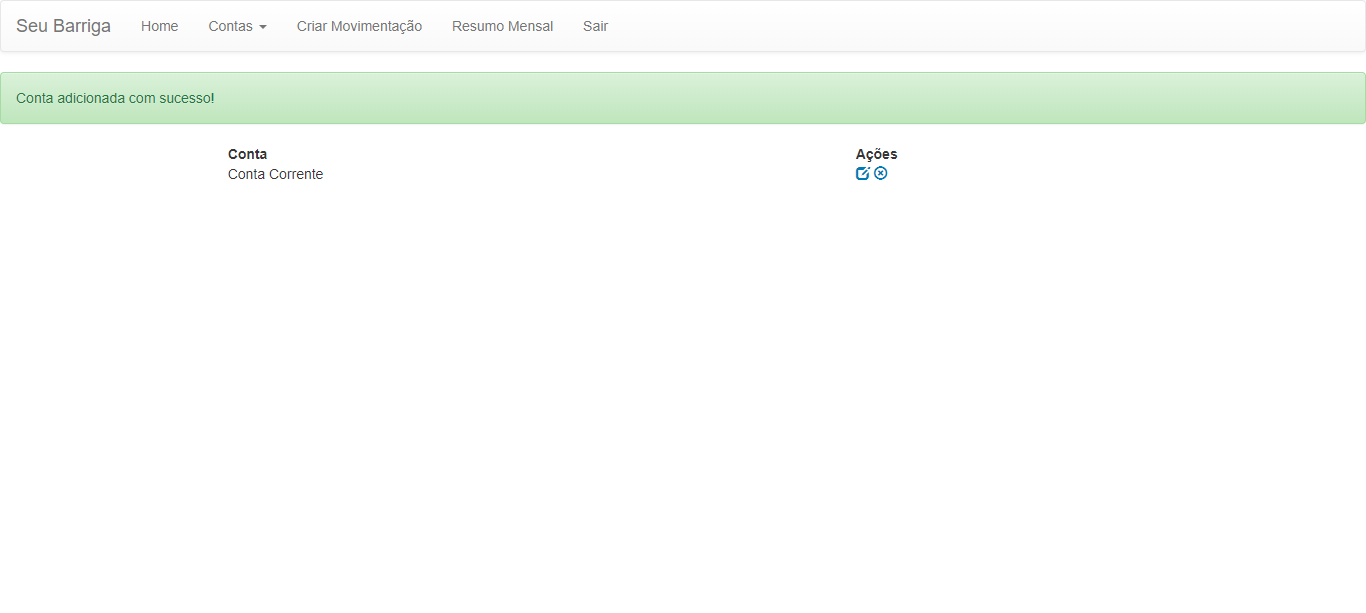
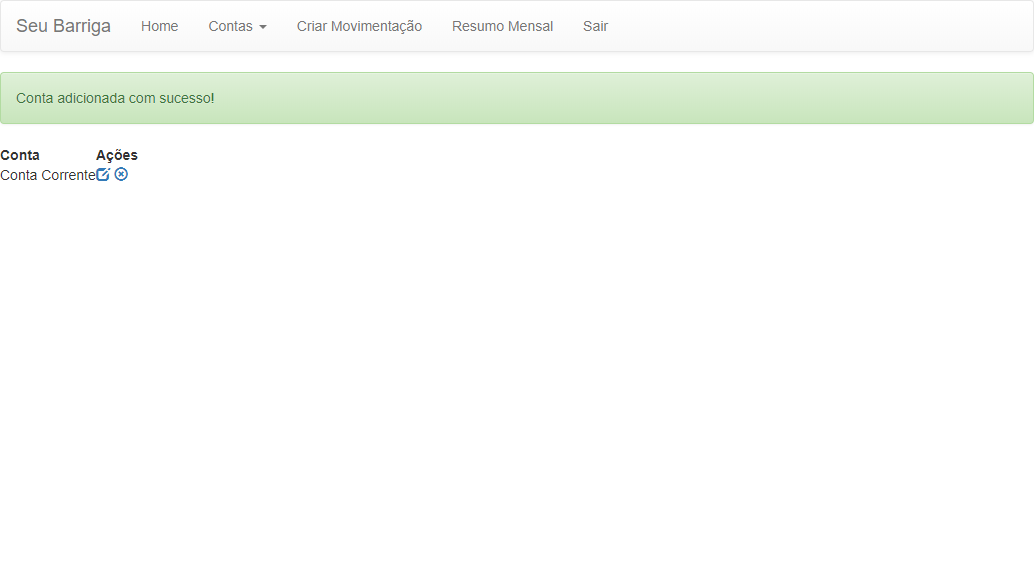
ajuste de env e jenkinsfile

diff --git a/features/support/env.rb b/features/support/env.rb
@@ -9,5 +9,4 @@ World(Helper)
 Capybara.configure do |config|
   config.default_driver = :selenium_chrome
   config.default_max_wait_time = 15
-  config.page.driver.browser.manage.window.maximize
 end
